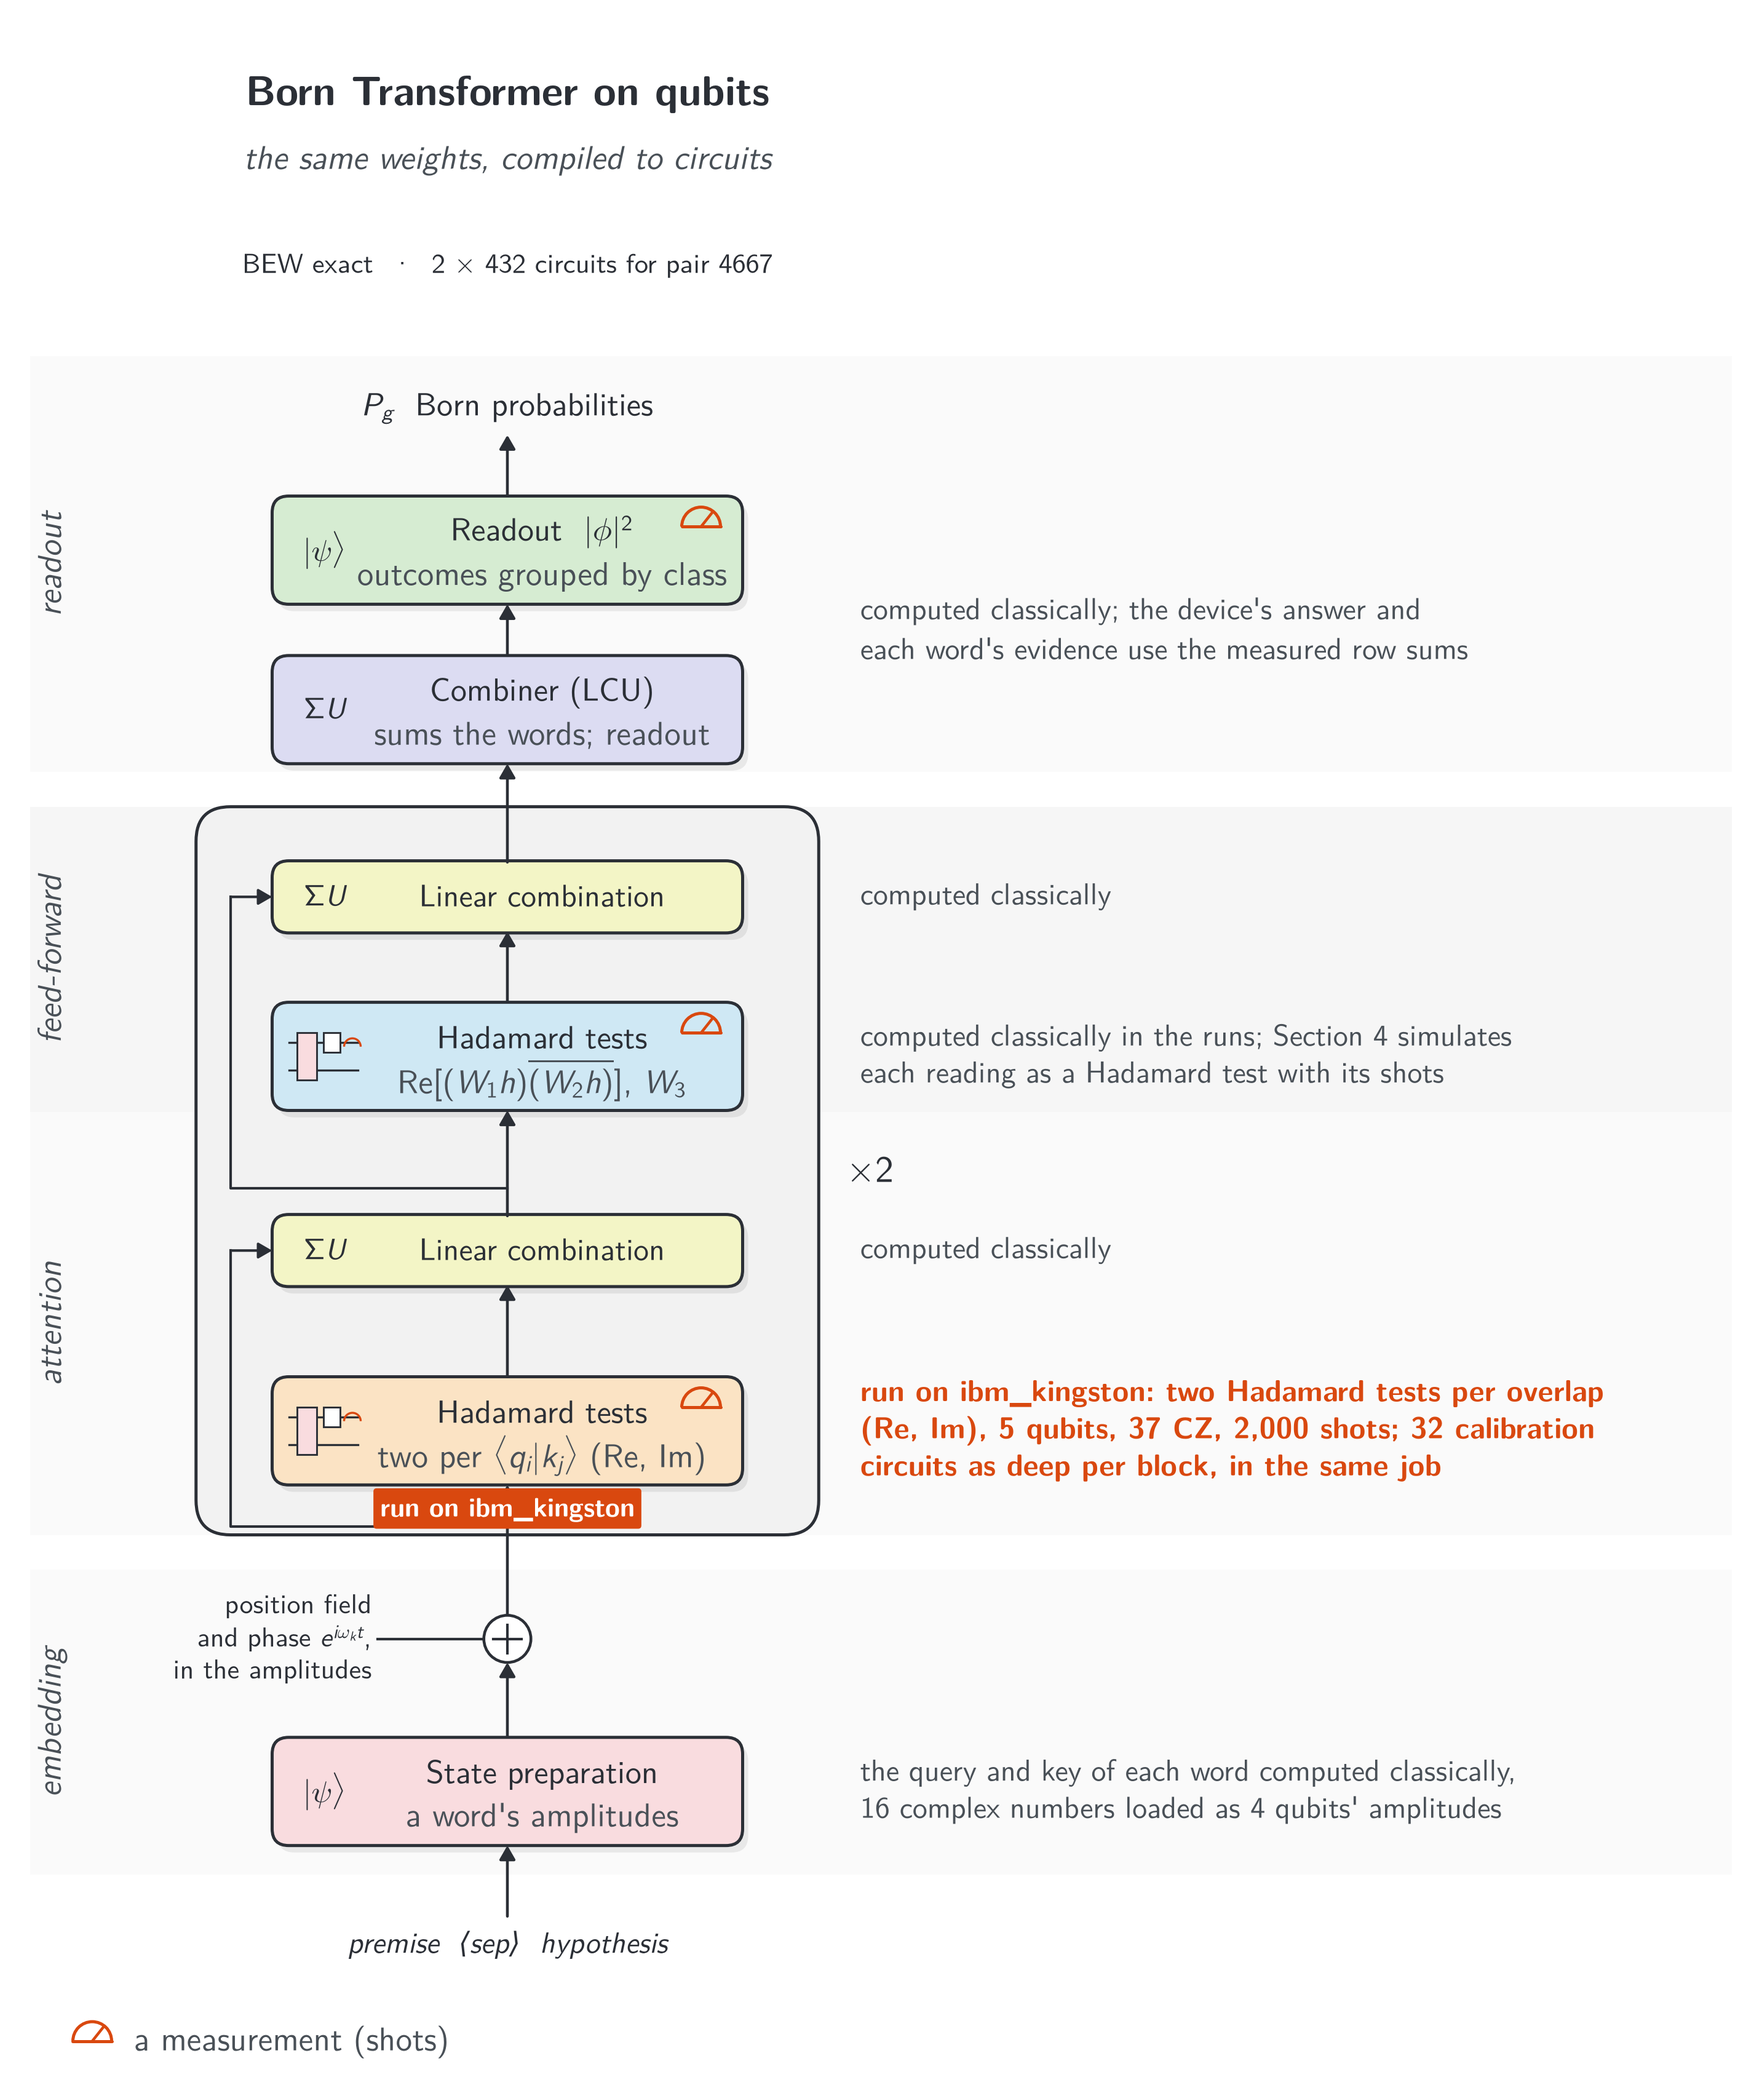
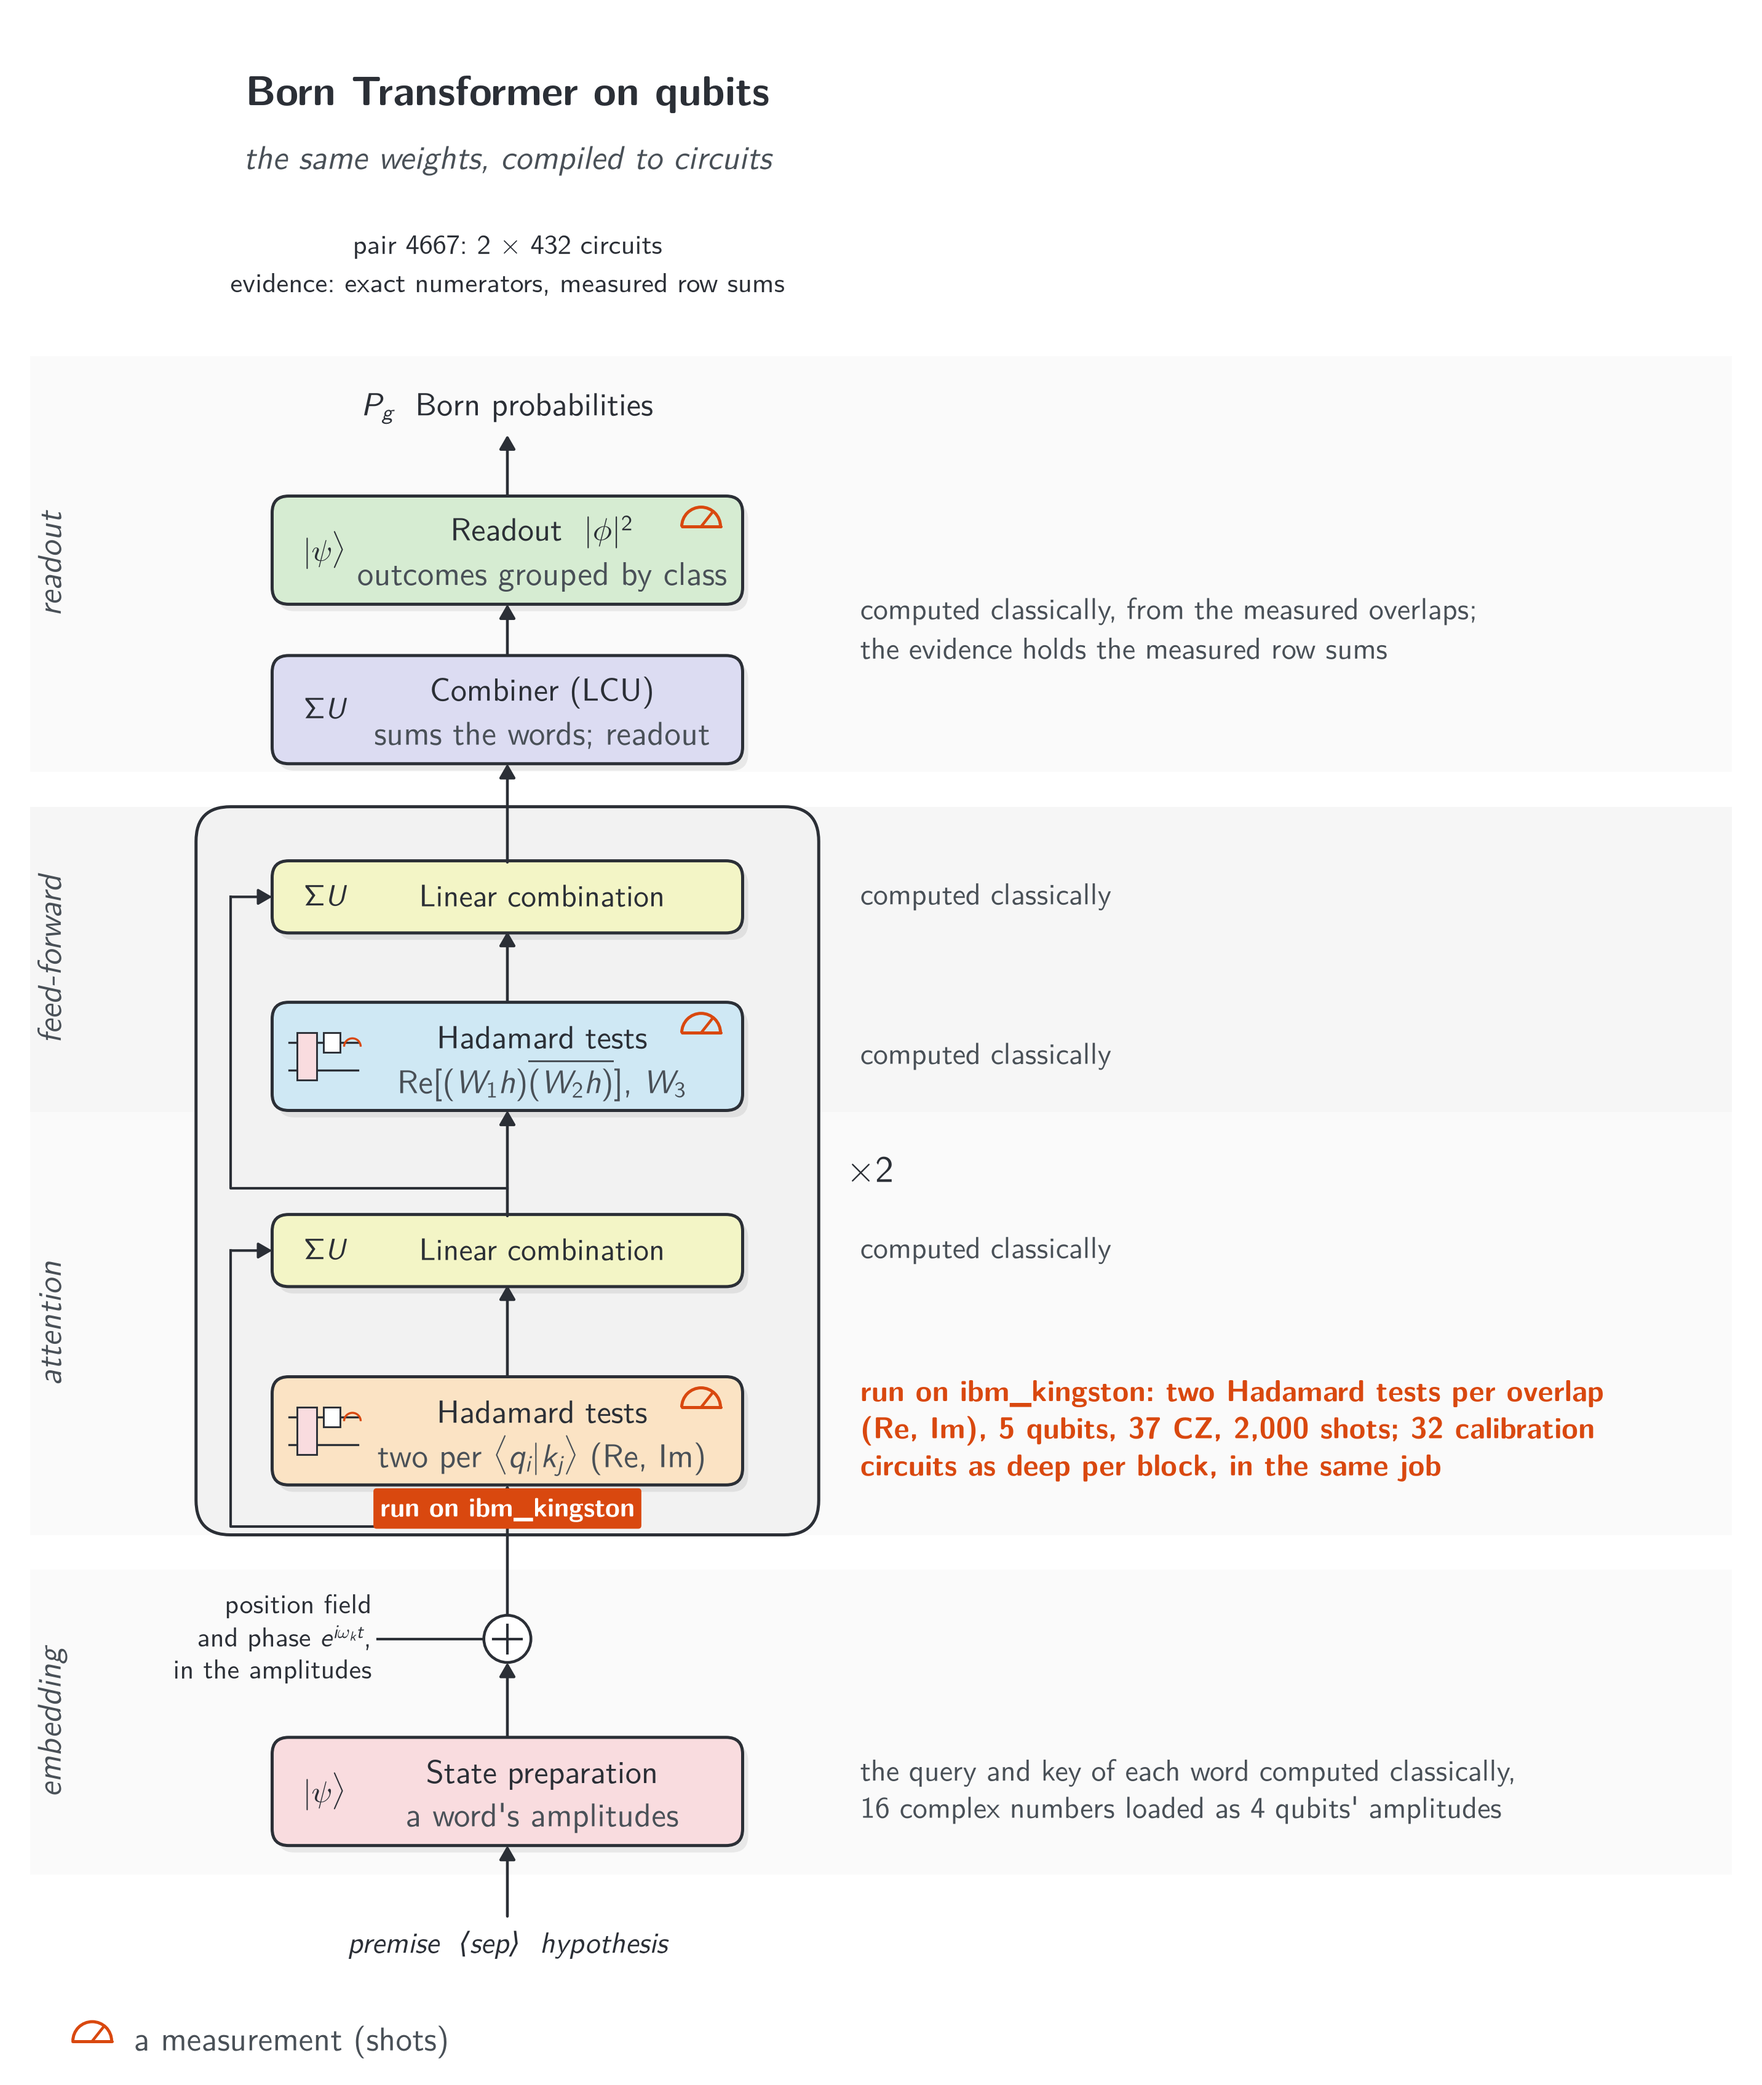
Figures and caption as the paper's after an independent check: the Born Transformer on qubits shows pair 4667's run

diff --git a/README.md b/README.md
@@ -39,8 +39,9 @@ only). Bands hold the same stage; detector symbols mark the measurements.*
 
 <img src="docs/born_qubits.png" alt="The Born Transformer on qubits, stage by stage, with what the runs on ibm_kingston did at each" width="55%">
 
-*The Born Transformer on qubits, stage by stage, and beside each stage what the runs on ibm_kingston did with it:
-the attention read on the device, the rest computed classically.*
+*The Born Transformer on qubits, stage by stage, and beside each stage what the run of pair 4667 on ibm_kingston did
+with it: the attention read on the device, with calibration circuits as deep, the rest computed classically; its
+evidence is hybrid, exact numerators with the measured row sums.*
 
 Each word $t$ enters as a complex field $a_t\,e_t$ with amplitude $a_t$. A block's attention weighs word $j$ for word
 $i$ by
